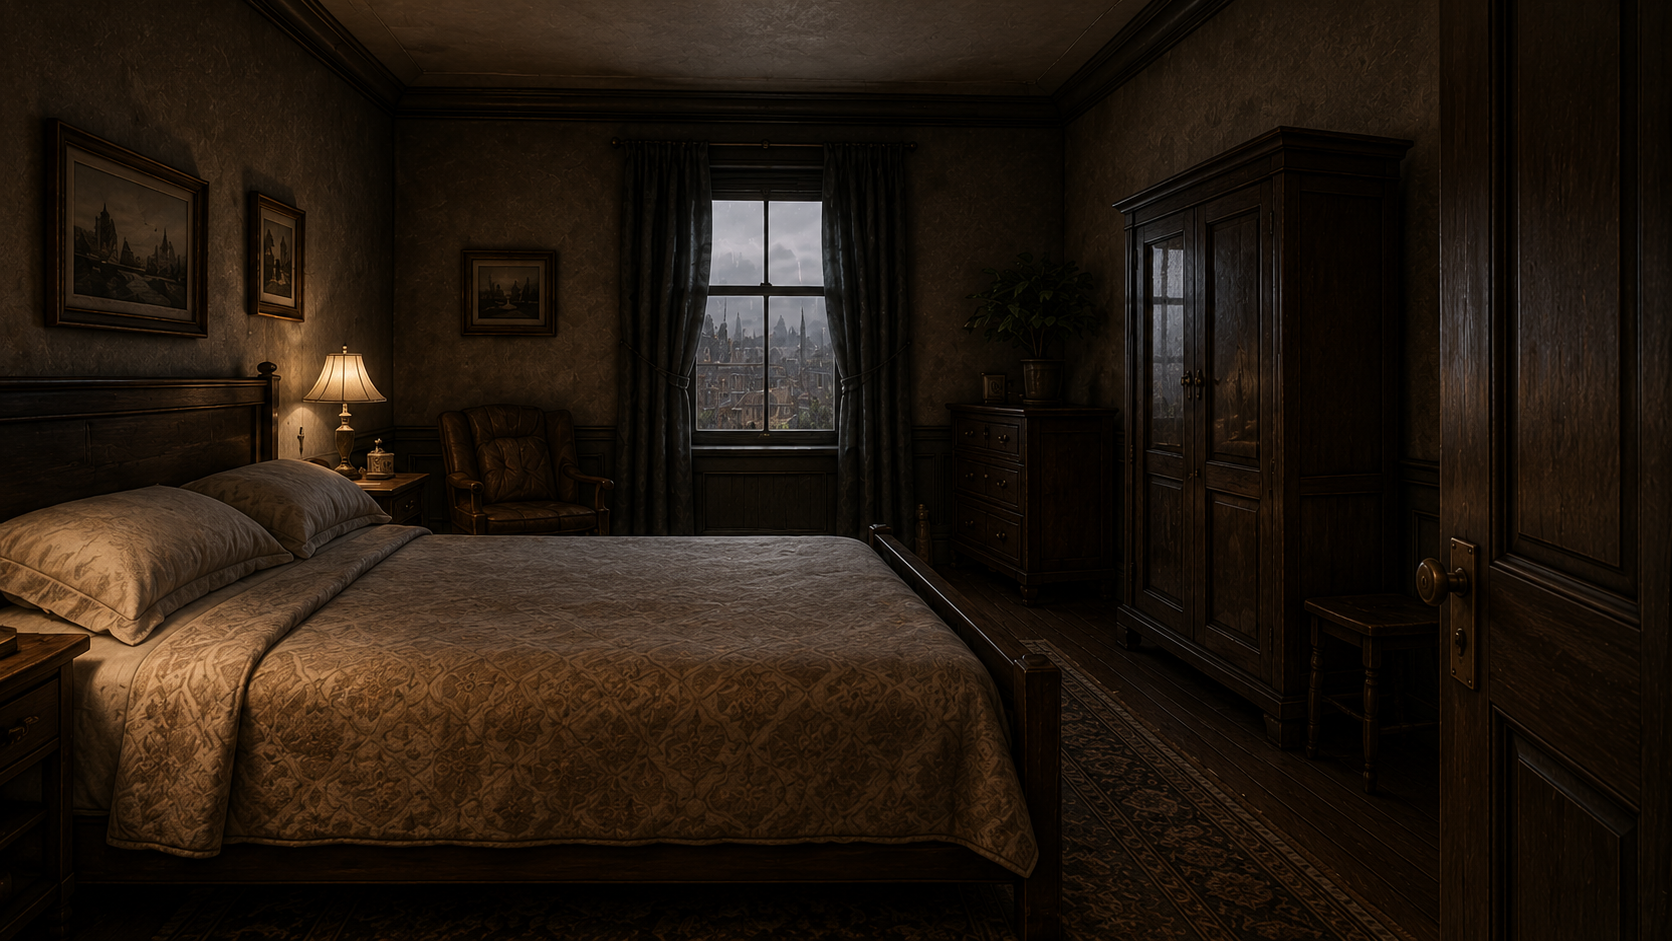
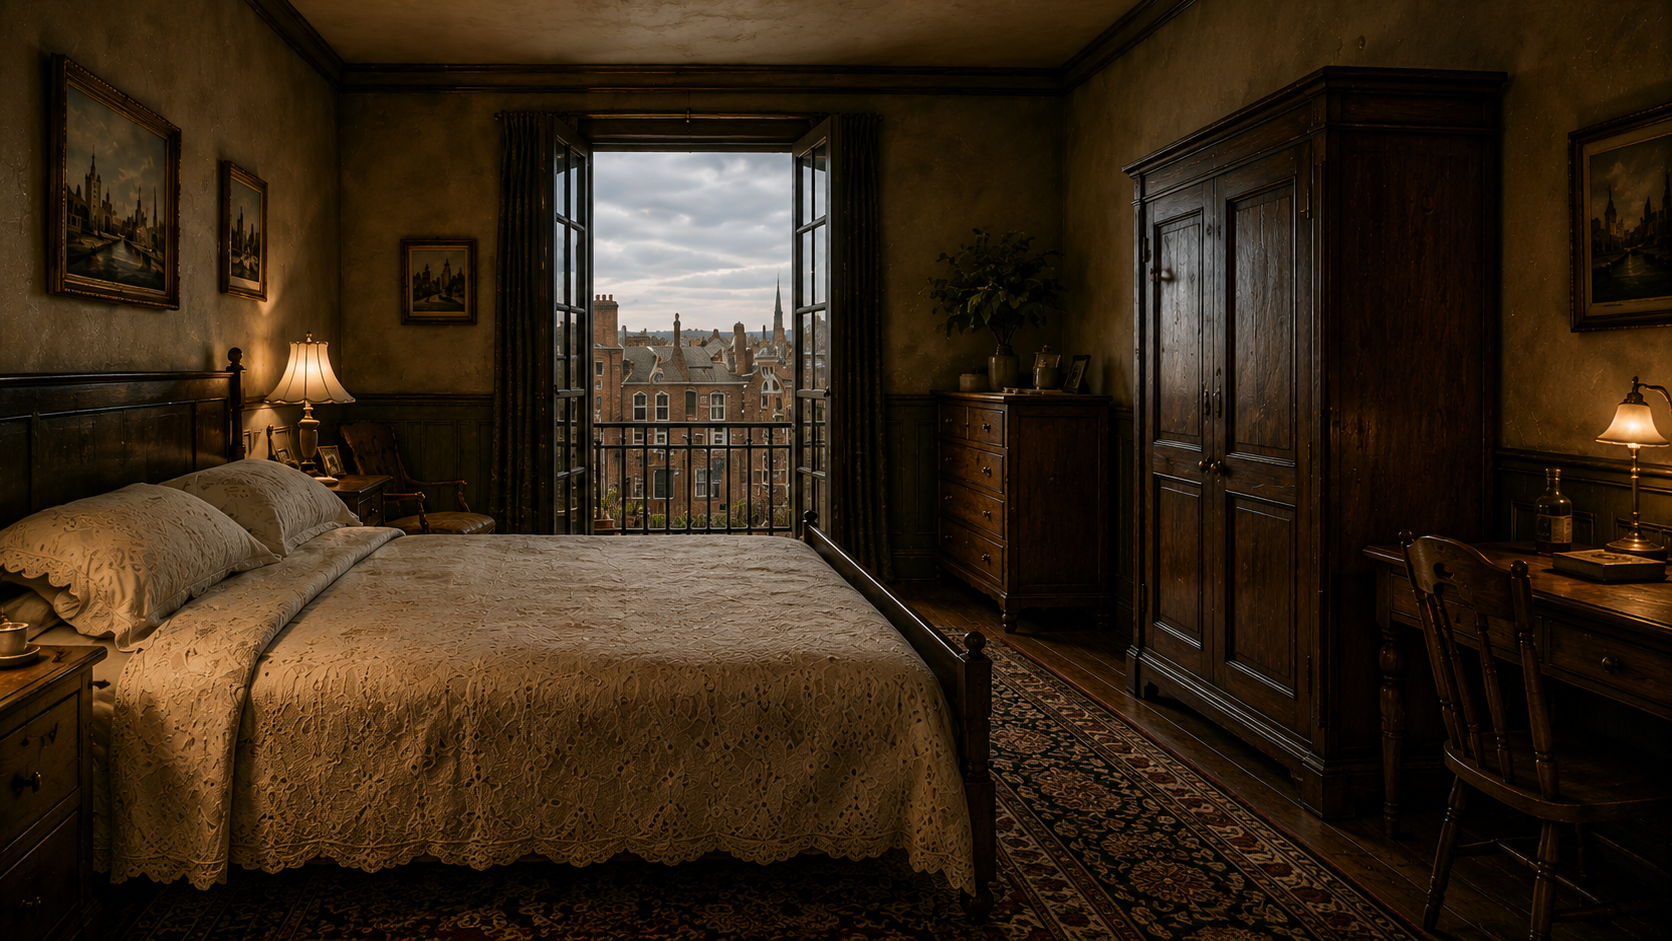
refactor: remove obsolete PNG images from settings directory to streamline asset management and reduce clutter

diff --git a/chatgpt-images/prompts.md b/chatgpt-images/prompts.md
@@ -1,0 +1,264 @@
+# 电影化等距俯视公寓概念图（Cinematic Isometric Apartment Concept Sheet）
+
+请根据我提供的第一人称室内场景图片（多张不同视角），
+反向推导并重建整个公寓的空间结构。
+
+重要：
+这不是普通平面图。
+最终输出应当像：
+“游戏开发中的环境概念结构图（Environment Concept Sheet）”
+或
+“电影化公寓概念展示板（Cinematic Apartment Presentation Board）”。
+
+整体风格参考：
+AAA 游戏设定集、
+心理恐怖游戏环境设计稿、
+艺术设定书中的场景概念图。
+
+--------------------------------------------------
+## 第一部分：强制空间结构规则（最高优先级，不可违反）
+--------------------------------------------------
+
+以下规则基于用户提供的第一人称图片中观察到的真实结构，必须严格遵循，不得添加、删除或修改任何一条：
+
+### 【0. 全局几何形状强制规则（最高优先级）】
+
+- 公寓整体外轮廓必须是一个完整的矩形或由一个矩形主体加上阳台小凸起构成。
+- 每一个房间（玄关、走廊、浴室、画室、客厅、厨房、卧室）的平面形状必须是严格的正方形或长方形。
+- 绝对禁止出现L形房间、梯形房间、多边形房间、弧形墙体或任何形式的异形空间。
+- 所有内墙必须互相垂直（90度夹角）。所有房间的墙角必须是直角。
+- 走廊必须是一条笔直的、等宽的矩形通道，不能有转折、收窄或加宽。
+
+### 【1. 玄关规则】
+- 玄关位于公寓入口处。玄关形状必须是长方形。
+- 玄关的左侧和右侧均没有房间（两侧是实墙或外墙，没有任何门通向其他房间）。
+- 玄关的正前方（或稍偏一侧）直接连接走廊（无门扇，仅为门洞或开放连通）。
+
+### 【2. 走廊规则】
+- 走廊的一端连接玄关，另一端（尽头）直接通向客厅。
+- 走廊的左侧墙体上有一扇门，通向浴室。
+- 走廊的右侧墙体上有一扇门，通向画室（书房/工作室，功能为艺术家画室）。
+- 走廊本身狭窄（宽度约1.0-1.2米），必须是一条等宽的矩形长条，没有其他分支或房间。
+- 【关键】画室的唯一入口就是走廊右侧的这扇门。画室与卧室之间是实墙，绝对不连通，没有任何门、通道或窗户。
+
+### 【3. 客厅规则】
+- 走廊的尽头直接进入客厅（门洞或开放连接，无门扇）。客厅形状必须是长方形。
+- 客厅的左侧（从客厅内部看向走廊方向时的左侧）有一个通道或门洞，通向厨房。
+- 客厅的右侧下方区域（右下角）有一扇门，通向卧室。
+
+### 【4. 厨房规则】
+- 厨房位于客厅的左侧。厨房形状必须是长方形。
+- 厨房与客厅之间的隔墙是完整的直线墙体，只有门洞连通，没有凹凸或错位。
+
+### 【5. 卧室规则】
+- 卧室的门位于客厅的右下角（从客厅内部看）。卧室形状必须是长方形。
+- 卧室位于画室的“上方”（在平面图中，卧室的南墙与画室的北墙相邻，但两者之间为实墙，无任何连通）。
+- 卧室连通一个阳台（卧室有门通向阳台，阳台朝向室外）。阳台形状必须是长方形小凸起。
+- 卧室本身没有直接的外墙窗户。所有采光来自通向阳台的门。
+- 【禁止】卧室与画室之间不得有任何形式的门、通道或采光窗。
+
+### 【6. 阳台规则】
+- 阳台只能从卧室进入。阳台形状必须是长方形。
+- 阳台是室外空间，有栏杆或矮墙，没有完整屋顶覆盖（或只有雨棚）。
+- 阳台朝东。
+
+### 【7. 浴室规则】
+- 浴室只能从走廊进入。浴室形状必须是长方形。
+- 【强制执行 + 几何逻辑修正】浴室的窗户必须位于公寓建筑平面的最西侧外墙线上。这意味着：在等距俯视图中，浴室的西墙是整间公寓唯一直接接触建筑西侧外立面的墙体。窗户开在此西墙上，采光朝向为朝西。
+- 【背景逻辑与视觉约束】浴室朝西的窗外必须绘制为独立的室外空间（例如一条狭窄的西向采光井或相邻建筑的外墙），绝对禁止与厨房或客厅共享的北向内天井有任何视觉或空间连接。西晒光线是暖色调。
+- 浴室只有一扇窗户。
+
+--------------------------------------------------
+## 第二部分：门的一致性规则
+--------------------------------------------------
+
+- 您在图片中看到的每一扇门在整体平面图中必须出现在完全相同的位置和朝向。
+- 如果图片中某个连接处没有门（例如厨房到客厅之间、玄关到走廊之间），则在平面图中必须体现为开放连通或门洞，不得添加门扇。
+- 【明确已知】厨房到客厅之间没有门。
+- 【明确已知】玄关到走廊之间没有门。
+- 不要“脑补”出图片中不存在的门。
+- 每扇门需标注内开/外开方向（基于图片中的门轴位置推断）。
+
+--------------------------------------------------
+## 第三部分：窗户规则（含具体朝向，基于第一人称图片，不可更改）
+--------------------------------------------------
+
+### 【3.0 本公寓已知窗户朝向强制表】
+
+以下每一条都是硬性规定，平面图中必须严格遵循：
+
+| 房间 | 窗户所在墙体 | 采光朝向 | 室外类型 | 备注 |
+|------|------------|---------|---------|------|
+| 浴室 | **西墙（建筑最外侧西立面）** | **朝西（夕晒/暖调）** | 独立的西向采光井或相邻建筑外墙（距离≥1.5m） | **强制执行，与北侧内天井完全隔离** |
+| 画室 | 东墙 | 朝东（冷调为主） | 街道 | 入口在走廊 |
+| 厨房 | 北墙 | 朝北（冷调光） | 内天井（与客厅共享） | 客厅左侧 |
+| 客厅 | 北墙 | 朝北（冷调光） | 内天井（与厨房共享） | 北墙连续，与厨房无墙体分隔 |
+| 卧室 | 无外墙窗 | 朝东（通过阳台门） | 无 | 采光来自阳台门 |
+| 阳台 | 朝东 | 朝东（晨光） | 街道或庭院 | 从卧室进入 |
+
+### 【3.1 关键空间逻辑】
+- 厨房和客厅的北墙是连续的（因为两房间之间无门、无墙体隔断），北墙外是同一个室外空间（内天井或建筑背面小巷）。
+- 浴室西墙窗外是一个完全独立的、不与任何其他房间窗户共享的室外空间。从图形上看，浴室的西侧外墙应该突出于建筑主体，或者被一道防火墙与北侧内天井完全隔开。
+- 卧室没有直接的外墙窗户，采光和通风全部依赖朝东的阳台门。
+
+### 【3.3 严格禁止的窗户布局】
+- ❌ 任何窗户直接看到另一房间内部
+- ❌ 厨房和客厅的北墙窗户被墙体隔开（因为两房间连通，北墙应是连续的）
+- ❌ 卧室出现任何直接的外墙窗户
+- ❌ 浴室窗户朝向西以外的任何方向（尤其禁止朝北）。禁止浴室的窗户与厨房/客厅共享同一个北向内天井。
+- ❌ 画室窗户不是东向（或缺少东向采光）
+- ❌ 阳台朝东以外的任何方向
+
+### 【3.4 与第一人称图片的对应规则】
+- 每个窗户都必须在某张第一人称图片中可见或有合理透视依据
+- 如果图片中浴室窗外显示西晒光线，则印证朝西
+- 如果图片中卧室没有任何外墙窗，则印证卧室无直接窗户
+
+### 【3.5 阳台门的处理】
+- 卧室通向阳台的门属于门，在平面图中用门符号标注
+- 该门同时承担采光功能，在采光分析中视为“朝东光源”（🌗）
+- 阳台围栏本身没有额外窗户
+
+### 【3.6 自然光源方向统一性】
+- 主要自然光来自：北墙（厨房+客厅冷光）、**西墙（浴室暖光，且必须与北向光源在空间上分离）**、东向阳台（卧室晨光）
+- 图中需用不同颜色箭头标注不同光源方向
+- **浴室的光源箭头必须明确指向西侧，并且从浴室区域指向图纸的最左侧（西方）**
+
+--------------------------------------------------
+## 第四部分：视角一致性与家具规则
+--------------------------------------------------
+
+- 先标注每张图片的拍摄位置和朝向，然后确保所有图片中的墙体、门窗、家具在组合成整体平面时完全匹配。
+- 家具不得穿透墙体，不得悬空。
+- 如果两张图片显示同一面墙的不同部分，其上的门窗数量和位置必须严格对应。
+- 所有房间内的家具布局也应遵循矩形规整原则：床、画桌、沙发、橱柜等主要家具应靠墙摆放或与墙体平行，不得出现斜角摆放。
+
+--------------------------------------------------
+## 第五部分：严禁行为（重申）
+--------------------------------------------------
+
+- 不要重新设计公寓布局。
+- 不要自由发挥家具位置。
+- 不要随意增加图片中不存在的房间。
+- 不要创建L形、梯形、多边形、弧形或任何非矩形的房间形状。每个房间必须是规整的长方形或正方形。
+- 不要在玄关左右两侧添加任何房间或门。
+- 不要改变走廊与客厅的连接方式。
+- 不要改变浴室（左）和画室（右）在走廊两侧的位置关系。
+- **不要将浴室窗户改为朝北，也不要让浴室窗户面向厨房或内天井**。
+- **不要在画室和卧室之间添加任何门或通道**。
+- 不要将厨房放在客厅右侧或任何其他位置——必须在客厅左侧。
+- 不要将卧室放在客厅左侧——必须在客厅右下角。
+- 不要在厨房和客厅之间添加门。
+- 不要忘记卧室连通阳台。
+- 不要添加图片中不存在的窗户。
+- 不要让任何窗户“看到”另一个房间内部。
+- 不要改变已指定的窗户朝向（浴室西、画室东、厨房北、客厅北、阳台东）。
+- 不要给卧室添加直接的外墙窗户。
+
+--------------------------------------------------
+## 第六部分：输出形式与画面内容
+--------------------------------------------------
+
+输出为：“电影化等距俯视公寓概念图（Cinematic Isometric Apartment Concept Sheet）”
+
+不是CAD蓝图、极简平面图或现代建筑图纸，而是游戏环境概念设计图、艺术设定集页面、叙事型环境结构图。
+
+画面必须包含以下元素：
+
+1. 主图：等距俯视 cutaway 结构（剖切屋顶和部分墙体，可看到房间内部）
+2. 房间编号（R01, R02……）
+3. 每个房间旁用小图标标注采光朝向（🌗🌘🌑，本公寓无🌕）
+4. 门/门洞用不同图标区分：有门扇=实心门符号，无门开放口=虚线双线符号（图例中说明）
+5. 左侧信息说明栏（手写风格字体）：
+   - 房间名称
+   - 房间面积（平方米，基于比例推算）
+   - 建筑信息（墙体厚度约0.25米、层高约3.2米、建造年份1935）
+6. 图例（legend）：门窗符号、家具符号、光源方向箭头、动线虚线
+7. 小型建筑定位图（公寓在街区中的位置示意）图中需清晰标注公寓西侧为街道或独立采光井，北侧为内天井。
+8. 做旧纸张纹理（牛皮纸质感）
+9. 复古排版（Art Deco边框、打字机字体）
+10. 环境说明文字（中英文均可），必须包含以下信息：
+    - “走廊尽头是客厅”
+    - “厨房与客厅之间没有门”
+    - “卧室连通朝东的小阳台”
+    - **“浴室窗户朝西，窗外为相邻建筑外墙，与北侧内天井完全隔离”**（加粗强调）
+    - **“画室窗户朝东，入口在走廊，与卧室不连通”**（加粗强调）
+    - “厨房和客厅的北墙窗户共享同一个室外空间（北向内天井）”
+    - “所有房间均为规整的矩形布局，无任何异形空间”
+11. subtle cinematic lighting（主光来自窗户，注意北冷、**西暖（独立光源）**、东晨光的差异）
+12. dark academia 氛围（暗棕、深绿、铜锈色，低饱和度）
+
+--------------------------------------------------
+## 第七部分：时代与环境设定
+--------------------------------------------------
+
+- 1930年代波士顿公寓（Back Bay 或 South End 风格）
+- 中产阶级艺术家住所
+- 老式橡木地板，有磨损和深浅色差
+- 高天花板（约3.2米），装饰石膏线脚
+- 狭窄走廊（宽度约1.0-1.2米）
+- 温暖但逐渐衰败的氛围（壁纸翘起，墙角有水渍）
+- 新英格兰老公寓特征：铸铁暖气片、双层悬挂窗
+- 真实可居住：厨房、浴室、卧室、画室、客厅、阳台
+- 轻微心理恐怖感：长走廊尽头光线变化、阳台门可能关不严、北向冷光与独立西向夕晒的对比
+
+--------------------------------------------------
+## 第八部分：风格参考（文字描述）
+--------------------------------------------------
+
+- 《Disco Elysium》——手绘、情绪化平面感
+- 《Layers of Fear》——倾斜视角但保持建筑合理性
+- 《Control》——结构剖切的清晰度
+- 经典《生化危机》环境概念图——等距剖面、房间标注
+- dark academia室内设计——深色木质、厚重窗帘、黄铜台灯
+
+--------------------------------------------------
+## 第九部分：最终目标（优先级排序）
+--------------------------------------------------
+
+1. 【最高优先级】严格遵循“第一部分：强制空间结构规则”中的每一条，尤其是新增的【0. 全局几何形状强制规则】——每个房间必须是规整的正方形或长方形，无任何异形空间。
+2. 【第二优先级】严格遵循“第三部分：窗户规则”中的每一条（特别是3.0朝向强制表与几何修正：**浴室必须朝西，且其西墙必须是建筑最外侧西立面，与北向内天井完全物理隔离**）
+3. 门的一致性（与第一人称图片匹配）
+4. 空间和家具的整体一致性
+5. 概念图展示美感（氛围优先，但不能违背物理）
+6. 【特别强调】画室与卧室之间为实墙，绝不连通。
+
+请输出最终图像。
+
+--------------------------------------------------
+## 第十部分：第一人称参考原图
+--------------------------------------------------
+
+以下是从公寓内部拍摄的第一人称视角参考图片，用于验证上述所有空间规则、门窗位置、采光方向及家具布局的真实性：
+
+> **【图片占位符：玄关视角图1】**
+> *拍摄位置：公寓入口处，面向玄关内部*
+> *验证内容：玄关左右两侧无门，正前方连接走廊*
+
+> **【图片占位符：走廊视角图2】**
+> *拍摄位置：玄关与走廊连接处，面向走廊深处*
+> *验证内容：走廊左侧为浴室门，右侧为画室门，走廊狭窄且笔直*
+
+> **【图片占位符：浴室内部图3】**
+> *拍摄位置：浴室内，面向西墙*
+> *验证内容：浴室窗户朝西，窗外为相邻建筑外墙，西晒暖光*
+
+> **【图片占位符：画室内部图4】**
+> *拍摄位置：画室内，面向东墙*
+> *验证内容：画室窗户朝东，冷调采光，无通往卧室的门*
+
+> **【图片占位符：客厅视角图5】**
+> *拍摄位置：走廊尽头，面向客厅内部*
+> *验证内容：客厅左侧连通厨房（无门），右下角为卧室门*
+
+> **【图片占位符：厨房视角图6】**
+> *拍摄位置：厨房内，面向北墙*
+> *验证内容：厨房北窗与客厅北窗共享内天井，冷调光*
+
+> **【图片占位符：卧室视角图7】**
+> *拍摄位置：卧室内，面向阳台门*
+> *验证内容：卧室无直接外墙窗，采光来自朝东阳台门*
+
+> **【图片占位符：阳台视角图8】**
+> *拍摄位置：阳台上，面向东方*
+> *验证内容：阳台朝东，晨光，只能从卧室进入*
